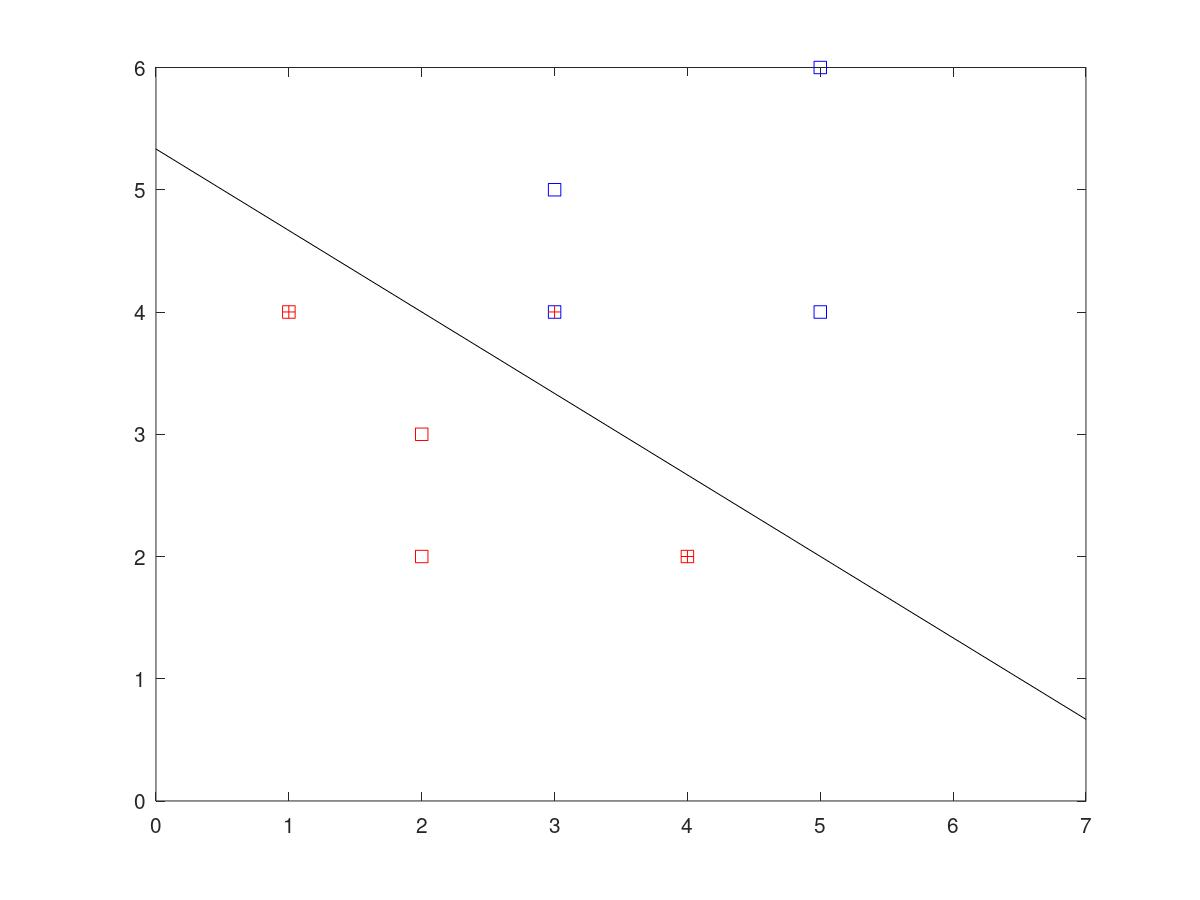
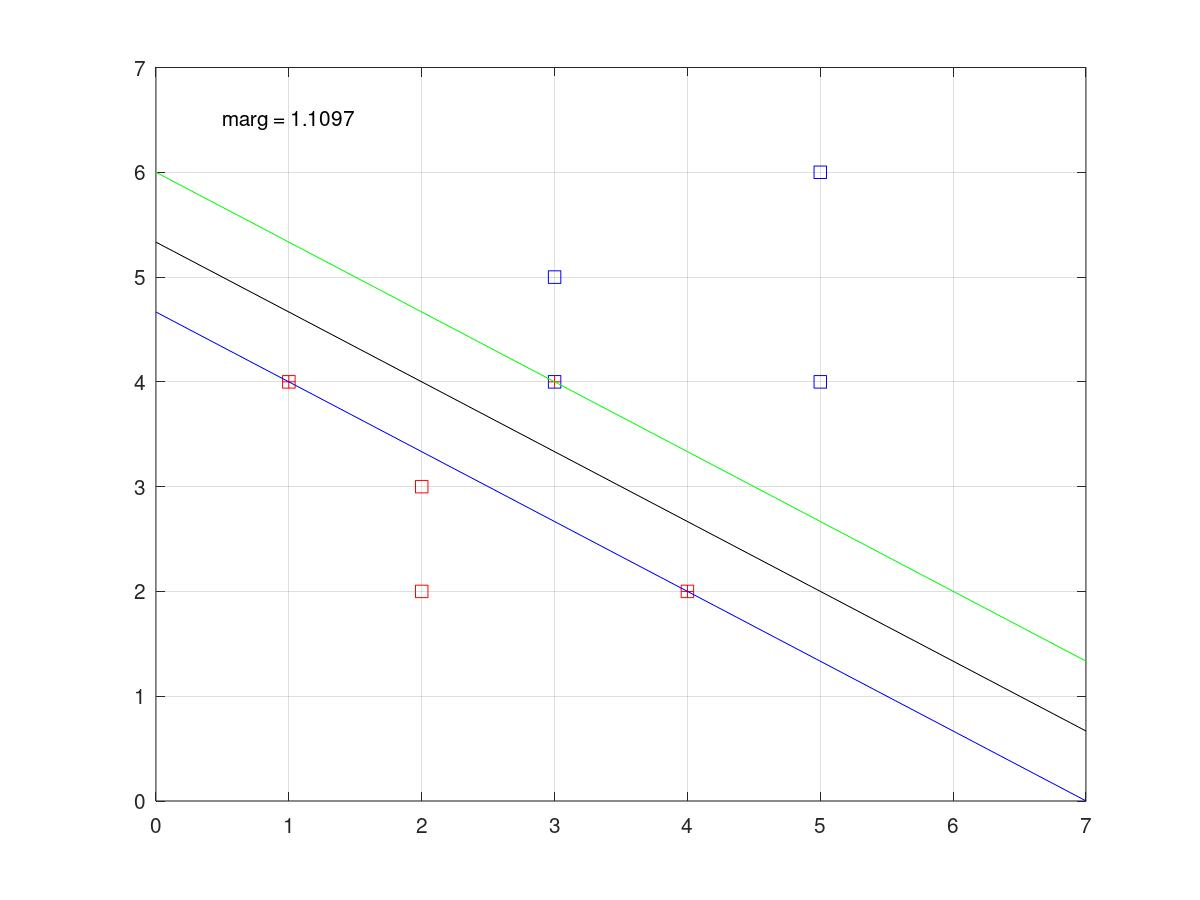
Fronteras pintadas

diff --git a/svm/plot_separable.m b/svm/plot_separable.m
@@ -11,9 +11,18 @@ x1 = [0:7]
 x2 = -theta(1)/theta(2)*x1 - theta0/theta(2)
 
 SV = X(res.sv_indices,:)
+SVl = xl(res.sv_indices,:)
 
+
+margin_total = 2/norm(theta)
+margin = 1/norm(theta(2))
 
 hf = figure();
-plot(X(xl==1,1),X(xl==1,2),"sr",X(xl==2,1),X(xl==2,2),"sb",x1,x2,"-k",SV(:,1),SV(:,2),"+r")
+
+plot(X(xl==1,1),X(xl==1,2),"sr",X(xl==2,1),X(xl==2,2),"sb",x1,x2,"-k",SV(:,1),SV(:,2),"+r", x1, x2+margin, "-g", x1, x2-margin, "-b")
+grid on
+text (0.5, 6.5, char(["marg = " , num2str(margin_total)]));
+axis([0 7 0 7])
+
 set (hf, "visible", "off");
 print(hf, "plot15_7.jpg", "-djpg");
